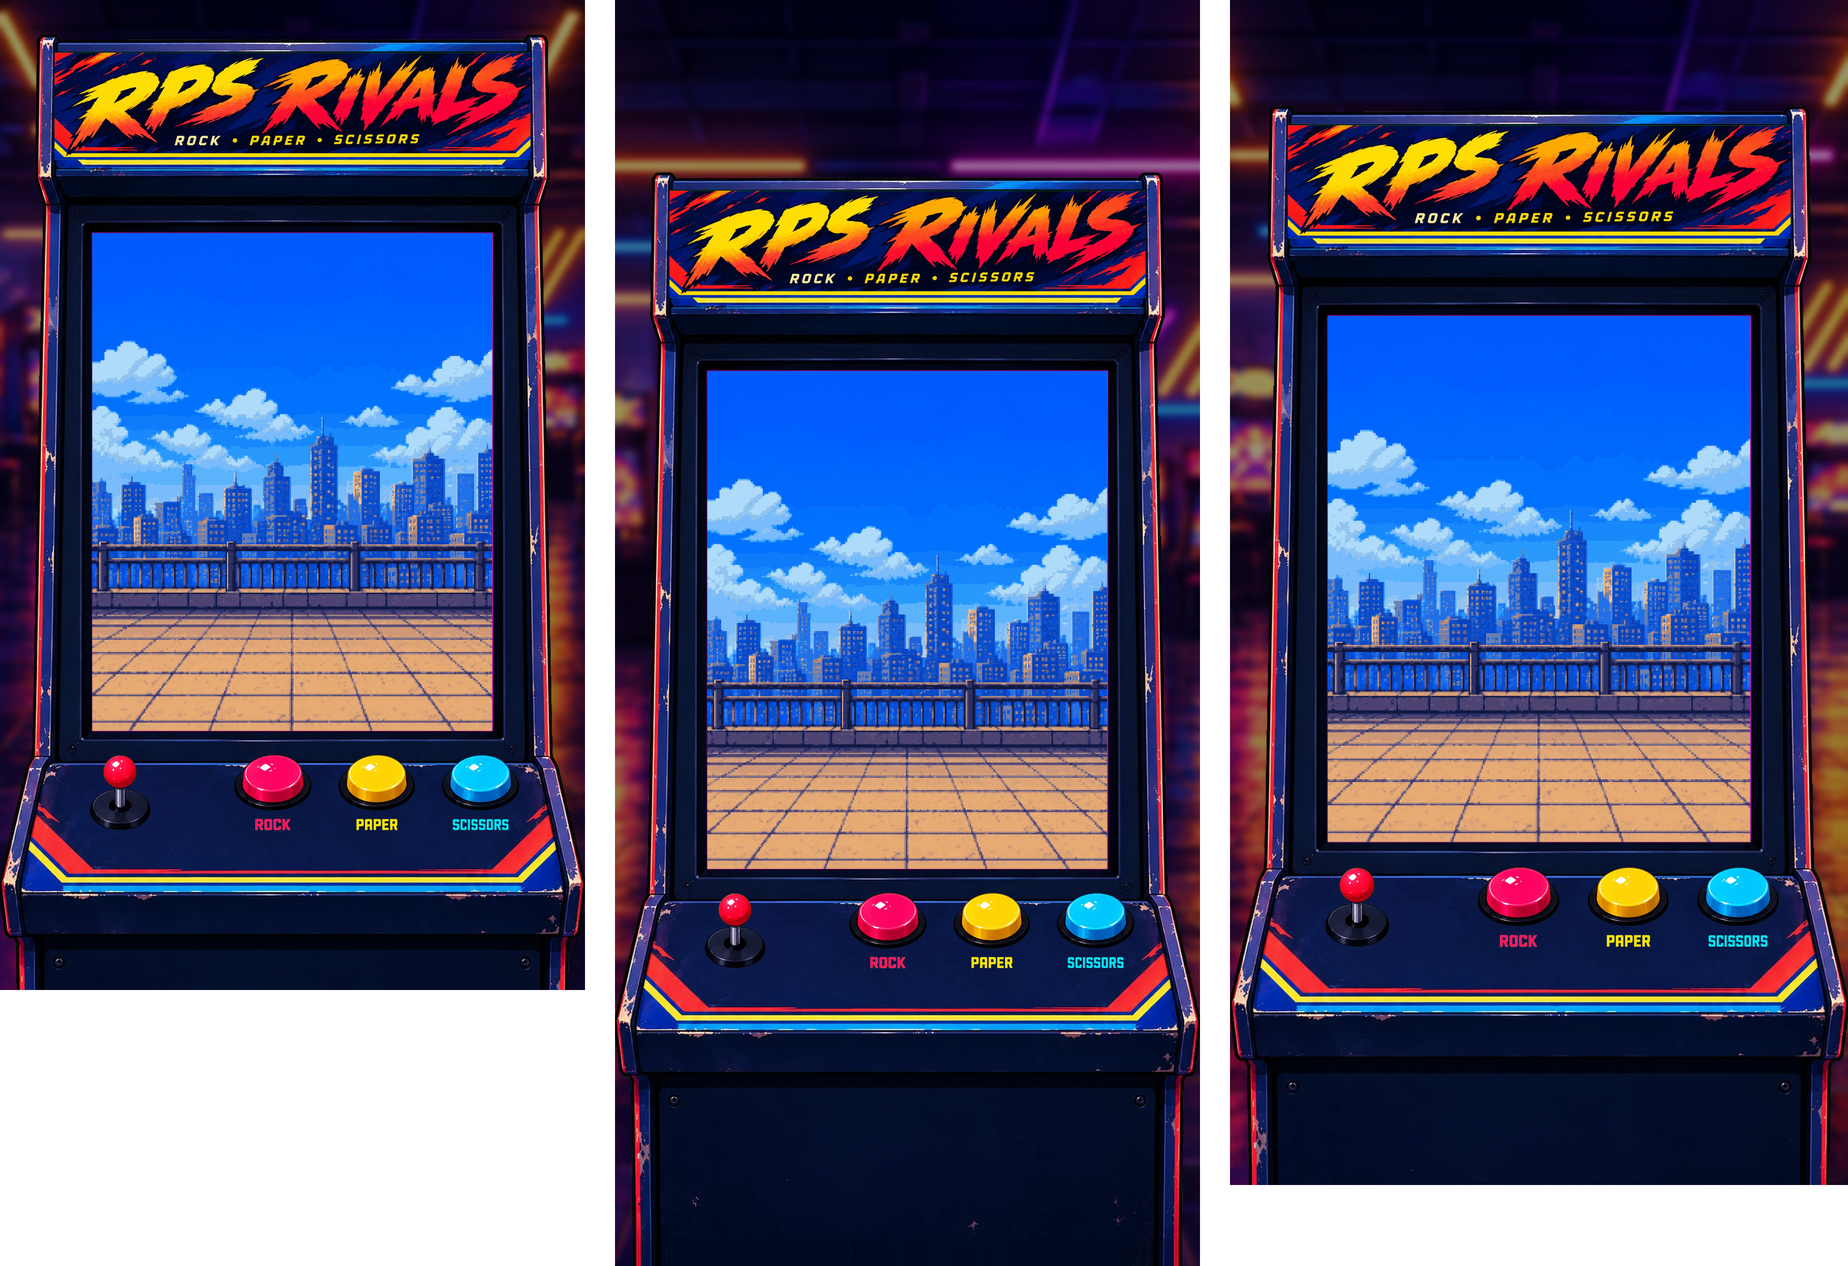
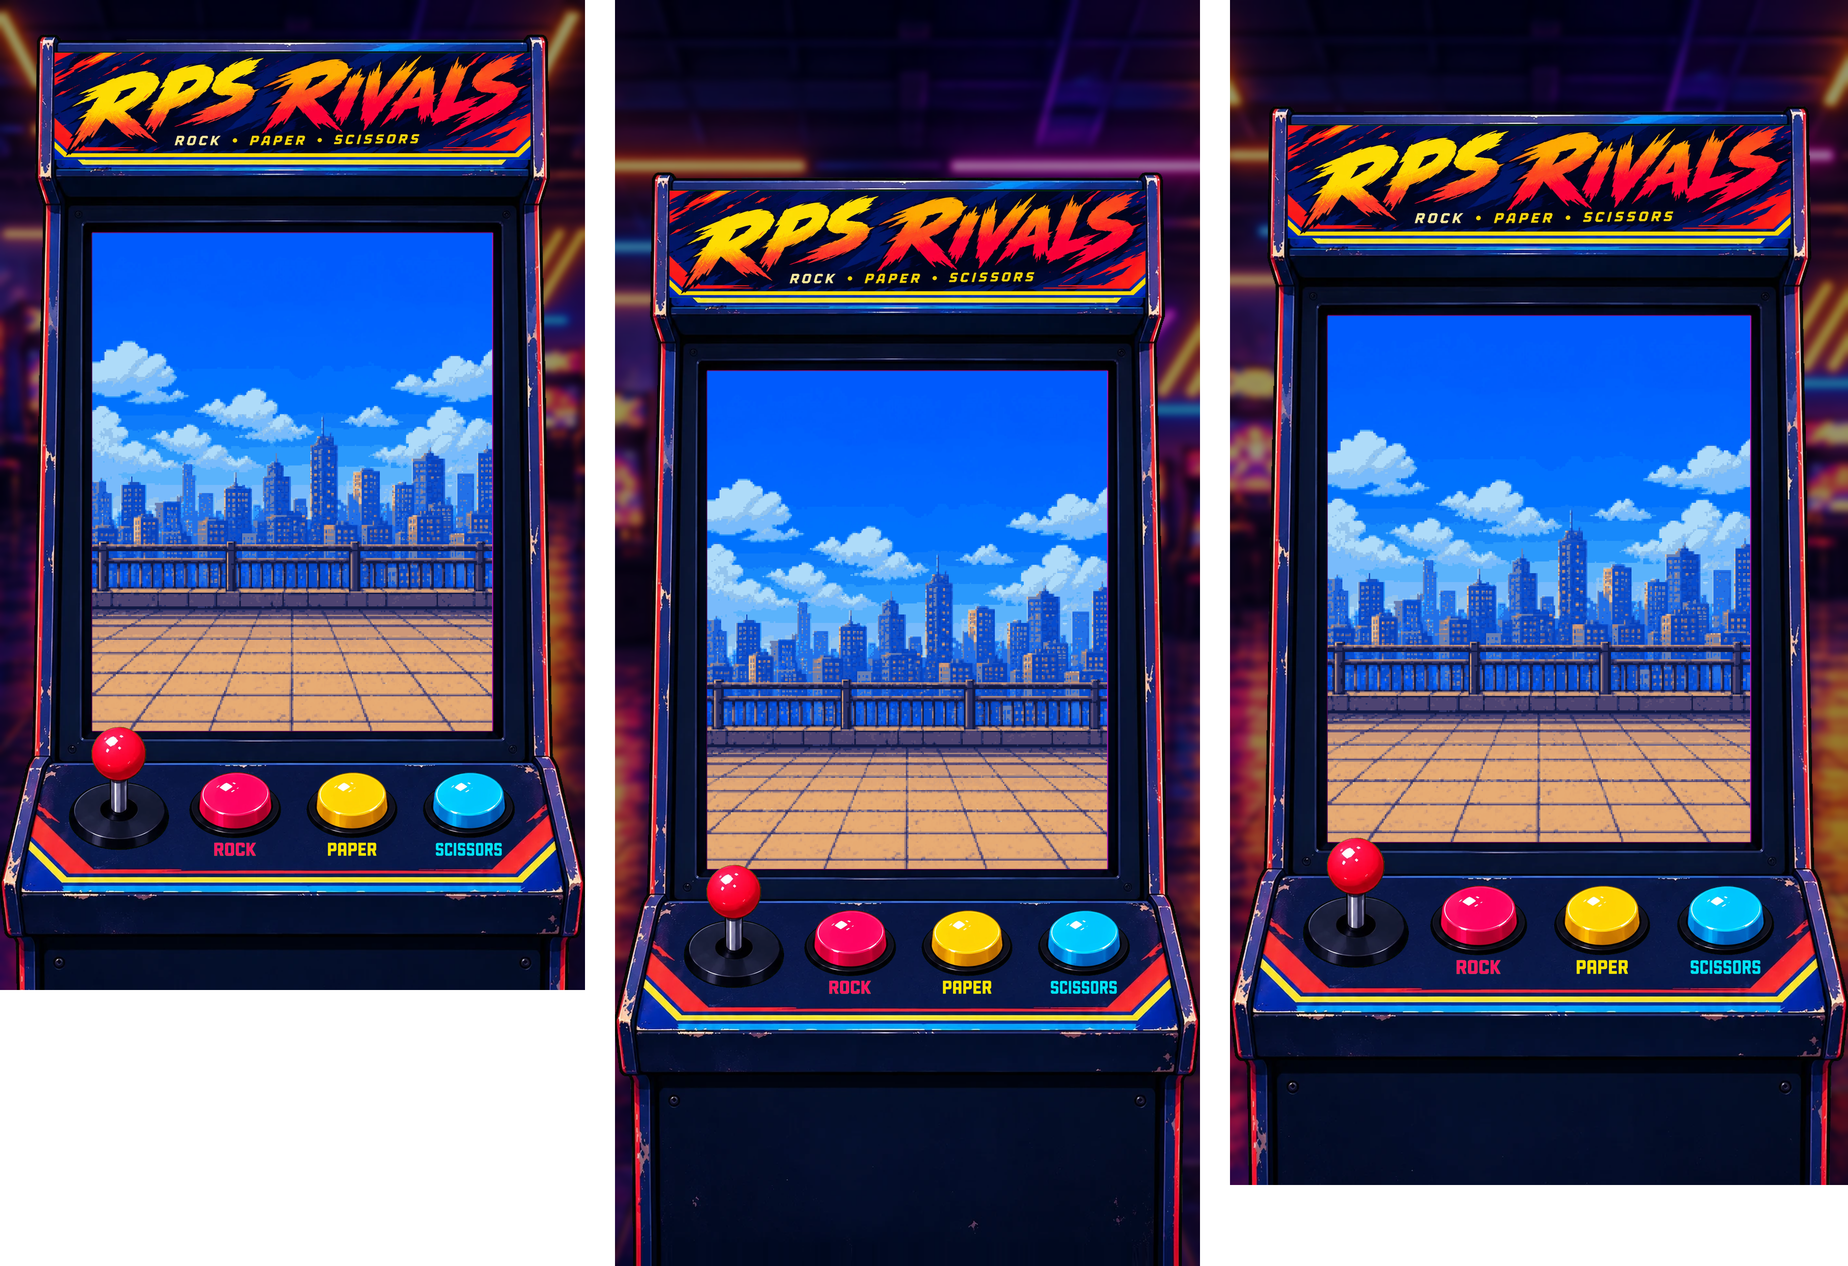
Phone preview: bigger joystick and buttons across the full control panel
Claude-Session: https://claude.ai/code/session_019JqX25W8kRMoSnwbw5sb37

Changed region(s): [[0.7094, 0.6469, 0.987, 0.7701], [0.3701, 0.6777, 0.6169, 0.8009], [0.0308, 0.5545, 0.2776, 0.6777]]

diff --git a/sources/v2-preview/compose.py b/sources/v2-preview/compose.py
@@ -1,0 +1,64 @@
+import sys
+from PIL import Image, ImageFilter
+I='images/'
+def key(im, thr=True):
+    im=im.convert('RGBA'); p=im.load()
+    for y in range(im.height):
+        for x in range(im.width):
+            r,g,b,a=p[x,y]
+            if g>170 and r<150 and b<150 and g-max(r,b)>80: p[x,y]=(0,0,0,0)
+            elif g>max(r,b)+20: p[x,y]=(r,max(r,b),b,a)  # despill
+    return im
+body=key(Image.open(I+'2.webp'))
+bp=body.load()
+for y in range(322,1089):
+    for x in range(162,778):
+        r,g,b,a=bp[x,y]
+        if r>150 and b>150 and g<120: bp[x,y]=(0,0,0,0)
+S=2
+body=body.resize((body.width*S,body.height*S),Image.LANCZOS)
+# marquee
+m=Image.open(I+'3.webp').convert('RGB').crop((0,125,2000,542))
+L,T,R,B=104*S,44*S,837*S,209*S; bw,bh=R-L,B-T
+sc=max(bw/m.width,bh/m.height); m=m.resize((round(m.width*sc),round(m.height*sc)),Image.LANCZOS)
+ox=(m.width-bw)//2; oy=(m.height-bh)//2; m=m.crop((ox,oy,ox+bw,oy+bh))
+# stage cleaned
+st=Image.open(I+'7.webp').convert('RGB').resize((288,360),Image.BOX).quantize(40,dither=Image.NONE).convert('RGB')
+st=st.resize((616*S,767*S),Image.NEAREST)
+cab=Image.new('RGBA',body.size,(0,0,0,0))
+cab.paste(st,(162*S,322*S)); cab.alpha_composite(body); cab.paste(m,(L,T))
+# buttons
+bt=key(Image.open(I+'4.webp'))
+btn=[bt.crop((c-180,120,c+180,390)) for c in (293,767,1245)]
+lab=[bt.crop((c-210,810,c+210,910)) for c in (291,768,1247)]
+BW=148
+bwid=BW*S
+for i,cx in enumerate((382,562,742)):
+    b=btn[i]; b=b.resize((bwid,round(b.height*bwid/b.width)),Image.LANCZOS)
+    cab.alpha_composite(b,(cx*S-bwid//2,1258*S-b.height))
+    l=lab[i]; lw=round(l.width*bwid/360*0.62); l=l.resize((lw,round(l.height*lw/l.width)),Image.LANCZOS)
+    cab.alpha_composite(l,(cx*S-lw//2,1258*S))
+jy=key(Image.open(I+'5.webp')).crop((418+30,418+40,836-30,836-30))
+jw=round(150/0.65)*S; jy=jy.resize((jw,round(jy.height*jw/jy.width)),Image.LANCZOS)
+cab.alpha_composite(jy,(203*S-jw//2,1306*S-jy.height))
+cab.save('scratchpad/cabinet-full.png')
+room=Image.open(I+'6.webp').convert('RGB')
+def phone(Wc,Hc,name):
+    D=3; W,H=Wc*D,Hc*D
+    out=room.copy(); s=max(W/out.width,H/out.height)
+    out=out.resize((round(out.width*s),round(out.height*s)),Image.LANCZOS)
+    out=out.crop(((out.width-W)//2,(out.height-H)//2,(out.width-W)//2+W,(out.height-H)//2+H)).filter(ImageFilter.GaussianBlur(6))
+    out=Image.eval(out,lambda v:int(v*0.6)).convert('RGBA')
+    # fit cabinet content width (x 20..921) to screen width
+    cw=(921-20)*S; sc=W/cw
+    c=cab.resize((round(cab.width*sc),round(cab.height*sc)),Image.LANCZOS)
+    x=-round(20*S*sc); y=max(0,(H-round(1450*S*sc))//2)
+    # extend base downward
+    out.alpha_composite(c,(x,y))
+    if y+c.height<H:
+        strip=c.crop((0,c.height-4,c.width,c.height)).resize((c.width,H-(y+c.height)))
+        out.alpha_composite(strip,(x,y+c.height))
+    out.convert('RGB').save(name); print(name, 'screen css px', round(616*S*sc/D), round(767*S*sc/D))
+phone(390,660,'scratchpad/phone-bars.png')
+phone(390,844,'scratchpad/phone-full.png')
+phone(412,790,'scratchpad/phone-android.png')
